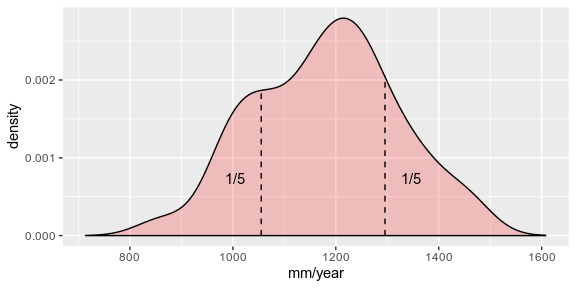
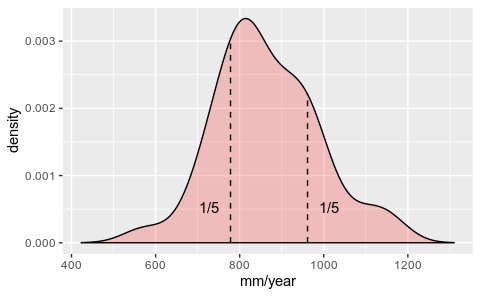
smaller study area

diff --git a/02_precip_analysis.md b/02_precip_analysis.md
@@ -1,75 +1,77 @@
 Caracterización del régimen pluvial de la Mixteca Alta, Oaxaca, y sus cambios (1981 - 2018)
 ================
-Carlos Dobler - 
+Carlos Dobler
 September 4, 2019
 
 El presente reporte documenta los patrones de precipitación de la Mixteca Alta y sus cambios durante los últimos 38 años. Para su elaboración, se analizó la base de datos de precipitación en malla CHIRPS version 2.0 (Funk et al., 2015). Combinando imágenes infrarrojo de nubes y datos de estaciones meteorológicas, CHIRPS (*Climate Hazards group Infrared Precipitation with Stations*) estima la cantidad de precipitación recibida a nivel diario, globalmente, con una resolución espacial de 0.05° (~5 km). Dadas estas características, CHIRPS tiene el potencial de proveer información detallada en regiones con una pobre cobertura espacial y temporal de datos climáticos. Tal es el caso de la Mixteca Alta. Con una extensión de ??? km<sup>2</sup>, la región cuenta con tan solo 4 estaciones, todas con vacíos del orden de décadas (obtenido del documento que preparó Quetzal).
 
 Con este reporte buscamos solventar estas carencias, proporcionando una caracterización continua en tiempo y espacio de la lluvia en la Mixteca Alta. Nos enfocamos en analizar tres aspectos principales de los patrones de precipitación de la región: su magnitud (cantidad), su estacionalidad, y su variabilidad interananual. En la primera sección se presenta la climatología de la región, o el comportamiento promedio de la lluvia desde 1981 hasta el 2018. En la segunda sección se reporta un análisis de tendencias durante el mismo periodo cuyo fin fue detectar si ha habido cambios en dichos patrones y dónde.
 
-## 1. Climatología pluvial de la Mixteca Alta
+1. Climatología pluvial de la Mixteca Alta
+==========================================
 
-La Mixteca Alta recibe en promedio 1182 mm de lluvia anuales. La distribución de la precipitación a lo largo del año es marcadamente estacional (Fig. 1). La estación lluviosa, la cual de manera general inicia en mayo y concluye en octubre, concentra el 87% de la precipitación anual. Dentro de la estación lluviosa se observa un patrón de distribución bimodal, con máximos a mediados de junio y finales de agosto. Entre los máximos, la precipitación presenta una disminución relativa, o canícula, manifestándose de manera más acentuada a finales de julio.
+La Mixteca Alta recibe en promedio 865 mm de lluvia anuales. La distribución de la precipitación a lo largo del año es marcadamente estacional (Fig. 1). La estación lluviosa, la cual de manera general inicia en mayo y concluye en octubre, concentra el 85% de la precipitación anual. Dentro de la estación lluviosa se observa un patrón de distribución bimodal, con máximos a mediados de junio y finales de agosto. Entre los máximos, la precipitación presenta una disminución relativa, o canícula, manifestándose de manera más acentuada a finales de julio.
 
-<img src="02_precip_analysis_files/figure-markdown_github/1-mean_temporal_dist-1.png" alt="Fig. 1. Distribución temporal de la precipitación (mm/semana)." width="70%" />
+<img src="02_precip_analysis_files/figure-markdown_github/1-mean_temporal_dist-1.png" alt="Fig. 1. Distribución temporal de la precipitación (mm/semana)." width="60%" />
 <p class="caption">
 Fig. 1. Distribución temporal de la precipitación (mm/semana).
 </p>
 
 Con respecto a su distribución espacial, los patrones de precipitación se podrían dividir en dos zonas (Fig. 2). Mientras los valles del noreste son más secos, con acumulaciones de entre 500 y 800 mm al año, la serranía del suroeste es mucho más húmeda, recibiendo entre 1,500 y 2,000 mm al año. \[sombra orográfica?\]
 
-<img src="02_precip_analysis_files/figure-markdown_github/2-spatial_distribution_mean_annual-1.png" alt="Fig. 2. Distribución espacial de la precipitación media anual." width="70%" />
+<img src="02_precip_analysis_files/figure-markdown_github/2-spatial_distribution_mean_annual-1.png" alt="Fig. 2. Distribución espacial de la precipitación media anual." width="60%" />
 <p class="caption">
 Fig. 2. Distribución espacial de la precipitación media anual.
 </p>
 
 La zona noreste también se distingue de la suroeste en términos de la llegada de la temporada lluviosa (Fig. 3). Mientras para el noreste ésta inicia a principios de mayo, en el suroeste inicia hacia finales del mismo mes. Esta diferencia en fechas no se manifiesta en el final de la temporada lluviosa, ocurriendo de manera generalizada a mediados de octubre para toda la región. Esto sugiere que existe una ligera diferencia regional en la duración de la temporada lluviosa: en el noreste es más larga, aproximadamente por un mes.
 
-<img src="02_precip_analysis_files/figure-markdown_github/3-spatial_distribution_seasonality-1.png" alt="Fig. 3. Distribución espacial del inicio y término de la temporada lluviosa." width="70%" />
+<img src="02_precip_analysis_files/figure-markdown_github/3-spatial_distribution_seasonality-1.png" alt="Fig. 3. Distribución espacial del inicio y término de la temporada lluviosa." width="60%" />
 <p class="caption">
 Fig. 3. Distribución espacial del inicio y término de la temporada lluviosa.
 </p>
 
-Si bien la precipitación media anual de la Mixteca Alta es de 1182 mm, el análisis de su variabilidad interanual indica que uno de cada cinco años, la precipitación disminuye por debajo de 1055 mm (una reducción de por lo menos 127 mm con respecto a la media) (Fig. 4). Nótese que estos eventos bien pueden ocurrir de manera consecutiva. Por otro lado, uno de cada cinco años, la precipitación excede 1296 mm (un aumento de por lo menos 114 mm con respecto a la media), pudiendo también ocurrir de manera consecutiva.
+Si bien la precipitación media anual de la Mixteca Alta es de 865 mm, el análisis de su variabilidad interanual indica que uno de cada cinco años, la precipitación disminuye por debajo de 778 mm (una reducción de por lo menos 87 mm con respecto a la media) (Fig. 4). Nótese que estos eventos bien pueden ocurrir de manera consecutiva. Por otro lado, uno de cada cinco años, la precipitación excede 961 mm (un aumento de por lo menos 96 mm con respecto a la media), pudiendo también ocurrir de manera consecutiva.
 
-<img src="02_precip_analysis_files/figure-markdown_github/4-density_mean_annual-1.png" alt="Fig. 4. Frecuencia de la precipitación media anual." width="70%" />
+<img src="02_precip_analysis_files/figure-markdown_github/4-density_mean_annual-1.png" alt="Fig. 4. Frecuencia de la precipitación media anual." width="60%" />
 <p class="caption">
 Fig. 4. Frecuencia de la precipitación media anual.
 </p>
 
 En su dimensión espacial, la variabilidad interanual también sigue un patrón diferenciado entre el noreste y suroeste de la región (Fig. 5). El suroeste tiende a ser más estable, con coeficientes de variación del 12 al 15%. El noreste, por el otro lado, es ligeramente más volátil, con coeficientes de variación que van del 15 al 18%.
 
-<img src="02_precip_analysis_files/figure-markdown_github/5-spatial_distribution_variability-1.png" alt="Fig. 5. Distribución espacial de la variabilidad interanual de la precipitación." width="70%" />
+<img src="02_precip_analysis_files/figure-markdown_github/5-spatial_distribution_variability-1.png" alt="Fig. 5. Distribución espacial de la variabilidad interanual de la precipitación." width="60%" />
 <p class="caption">
 Fig. 5. Distribución espacial de la variabilidad interanual de la precipitación.
 </p>
 
-## 2. Tendencias
+2. Tendencias
+=============
 
 En la figura 6 se presentan las anomalías pluviales por año con respecto al comportamiento promedio. Se puede observar que en los primeros años del periodo de estudio (i.e. de 1981 a 1994), la Mixteca estuvo bajo condiciones más secas de lo normal. Por el contrario, los últimos años acumularon más lluvia de lo normal (i.e. del 2010 al 2018), con excepción del 2016. Ese año, junto con 1982 y 1988, corresponden a los años más secos dentro del periodo de estudio. Los años 2010, 2014, y 2017 representan los años más húmedos.
 
-<img src="02_precip_analysis_files/figure-markdown_github/6-ggridges_annual-1.png" alt="Fig. 6. Anomalías en la precipitación anual. El área bajo la curva corresponde a la extensión total de la zona de estudio. Distribuciones hacia percentiles por debajo de 0.5 indican condiciones más secas de lo normal, mientras aquellas por arriba de 0.5 indican acumulaciones excedentes." width="40%" />
+<img src="02_precip_analysis_files/figure-markdown_github/6-ggridges_annual-1.png" alt="Fig. 6. Anomalías en la precipitación anual. El área bajo la curva corresponde a la extensión total de la zona de estudio. Distribuciones hacia percentiles por debajo de 0.5 indican condiciones más secas de lo normal, mientras aquellas por arriba de 0.5 indican acumulaciones excedentes." width="50%" />
 <p class="caption">
 Fig. 6. Anomalías en la precipitación anual. El área bajo la curva corresponde a la extensión total de la zona de estudio. Distribuciones hacia percentiles por debajo de 0.5 indican condiciones más secas de lo normal, mientras aquellas por arriba de 0.5 indican acumulaciones excedentes.
 </p>
 
 El análisis de cambios en la cantidad de lluvia indica que ésta ha ido en aumento durante los últimos 38 años para una extensión considerable de la Mixteca Alta (Fig. 7). Las áreas que exhiben un mayor aumento se ubican en la zona de transición entre los valles del noreste y las serranías del suroeste, con hasta 16 mm adicionales cada año (un incremento total de 608 mm desde 1981). Hacia el extremo noreste y suroeste no se pudo encontrar tendencia alguna.
 
-<img src="02_precip_analysis_files/figure-markdown_github/7-spatial_distribution_changes_magnitude-1.png" alt="Fig. 7. Cambios en la cantidad de precipitación anual. Celdas marcadas con &quot;X&quot; indican tendencias no significativas." width="70%" />
+<img src="02_precip_analysis_files/figure-markdown_github/7-spatial_distribution_changes_magnitude-1.png" alt="Fig. 7. Cambios en la cantidad de precipitación anual. Celdas marcadas con &quot;X&quot; indican tendencias no significativas." width="60%" />
 <p class="caption">
 Fig. 7. Cambios en la cantidad de precipitación anual. Celdas marcadas con "X" indican tendencias no significativas.
 </p>
 
 Con respecto a la estacionalidad, nuestro análisis indica que para la porción noreste, la temporada lluviosa ha estado llegando gradualmente más tarde (en promedio, poco menos de 1 día mas tarde cada año, lo que significa un cambio de alrededor de 20 días a lo largo de los últimos 38 años) (Fig. 8). El término de la temporada lluviosa para la zona noreste también exhibe una tendencia, en este caso hacia su ocurrencia más temprana. Sin embargo, estas tendencias no parecen significativas. Para el resto de la Mixteca Alta no se detectó ningún cambio considerable en el inicio y término de la temporada lluviosa.
 
-<img src="02_precip_analysis_files/figure-markdown_github/8-spatial_distribution_changes_season-1.png" alt="Fig. 8. Cambios en las fechas de inicio y fin de la temporada lluviosa. Celdas marcadas con &quot;X&quot; indican tendencias no significativas." width="70%" />
+<img src="02_precip_analysis_files/figure-markdown_github/8-spatial_distribution_changes_season-1.png" alt="Fig. 8. Cambios en las fechas de inicio y fin de la temporada lluviosa. Celdas marcadas con &quot;X&quot; indican tendencias no significativas." width="60%" />
 <p class="caption">
 Fig. 8. Cambios en las fechas de inicio y fin de la temporada lluviosa. Celdas marcadas con "X" indican tendencias no significativas.
 </p>
 
 Por último, en cuanto a cambios en la variabilidad interanual, nuestro análisis muestra un ligero aumento en la porción centro-norte, así como una franja en la porción central y en el suroeste (Fig. 9). Sin emargo, en estas últimas, las tendencias observadas no parecen significativas. Diminución en la variabilidad interanual se observa en el centro-occidente y ligeramente en el centro-oriente. De igual manera, estas tendencias no son significativas según nuestro análisis.
 
-<img src="02_precip_analysis_files/figure-markdown_github/9-spatial_distribution_changess_variability-1.png" alt="Fig. 9. Cambios en variabilidad interanual. Celdas marcadas con &quot;X&quot; indican tendencias no significativas." width="70%" />
+<img src="02_precip_analysis_files/figure-markdown_github/9-spatial_distribution_changess_variability-1.png" alt="Fig. 9. Cambios en variabilidad interanual. Celdas marcadas con &quot;X&quot; indican tendencias no significativas." width="60%" />
 <p class="caption">
 Fig. 9. Cambios en variabilidad interanual. Celdas marcadas con "X" indican tendencias no significativas.
 </p>
